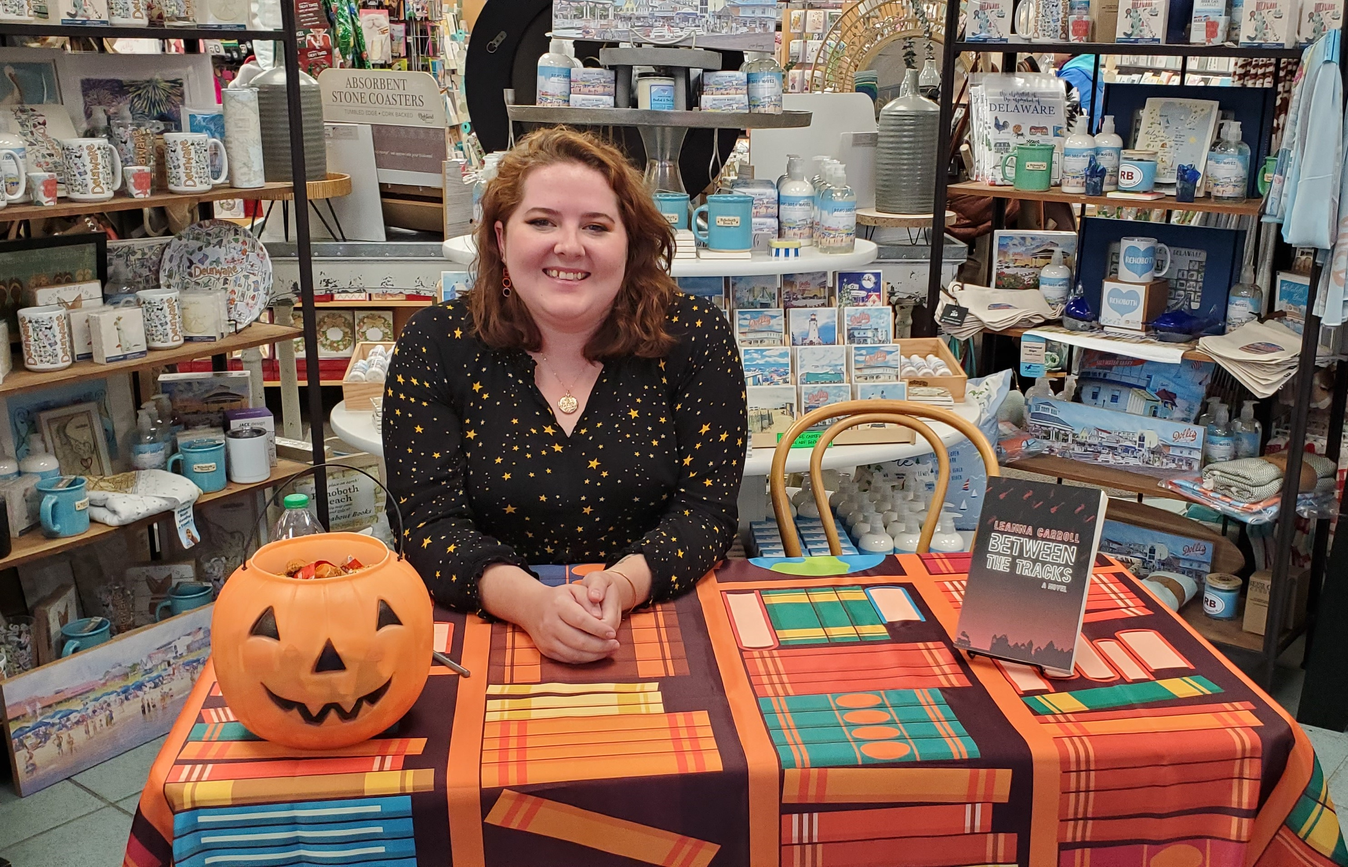
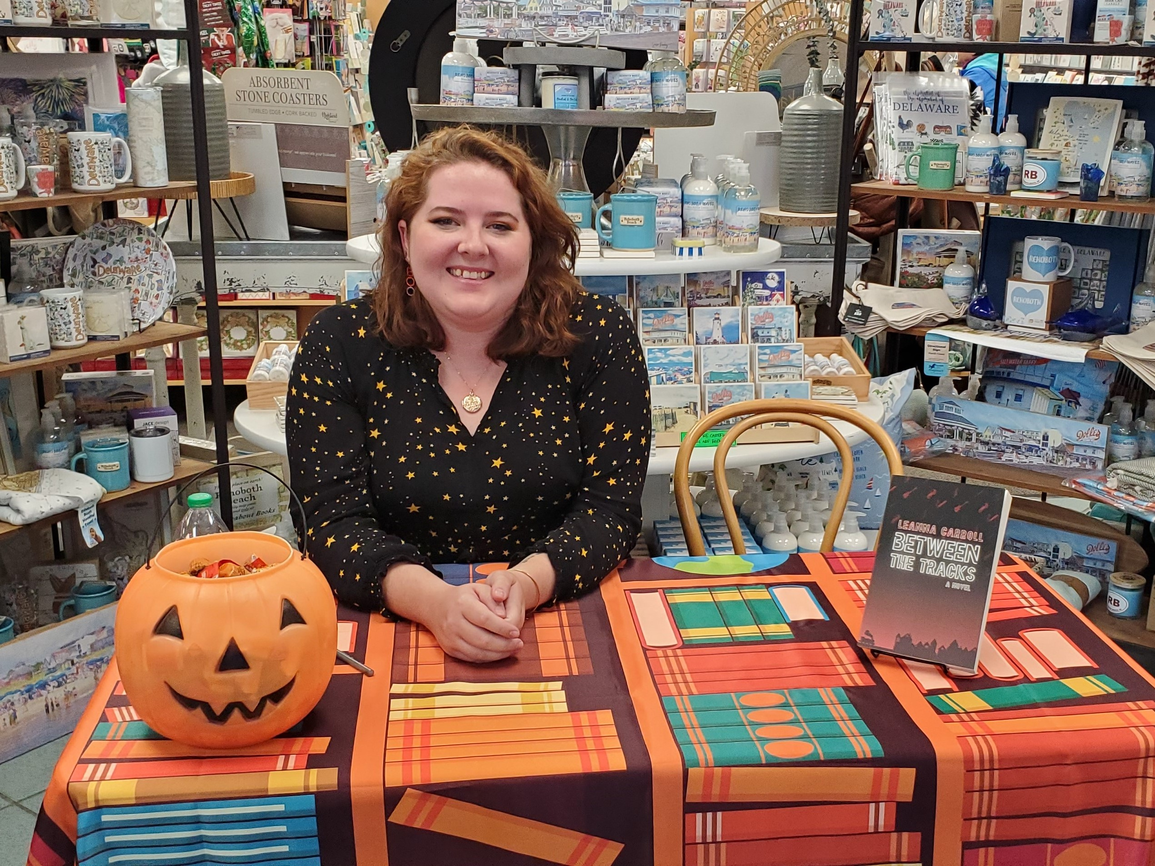
change crop

diff --git a/index.html b/index.html
@@ -135,7 +135,7 @@
               <p>
                 Hello! My name is Leanna Carroll. I am currently pursuing my MLIS degree at the University of Denver. I am also a self-published author of two novels.
               </p>
-              <img src="assets/img/me.jpg" alt="A photo of me, sitting at a table during a book signing for my second novel in October, 2022" style="width:600px;height:500px">
+              <img src="assets/img/me.jpg" alt="A photo of me, sitting at a table during a book signing for my second novel in October, 2022" style="width:400px;height:300px">
             </div>
           </div>
           <div class="col-xl-7 d-flex align-items-stretch">
